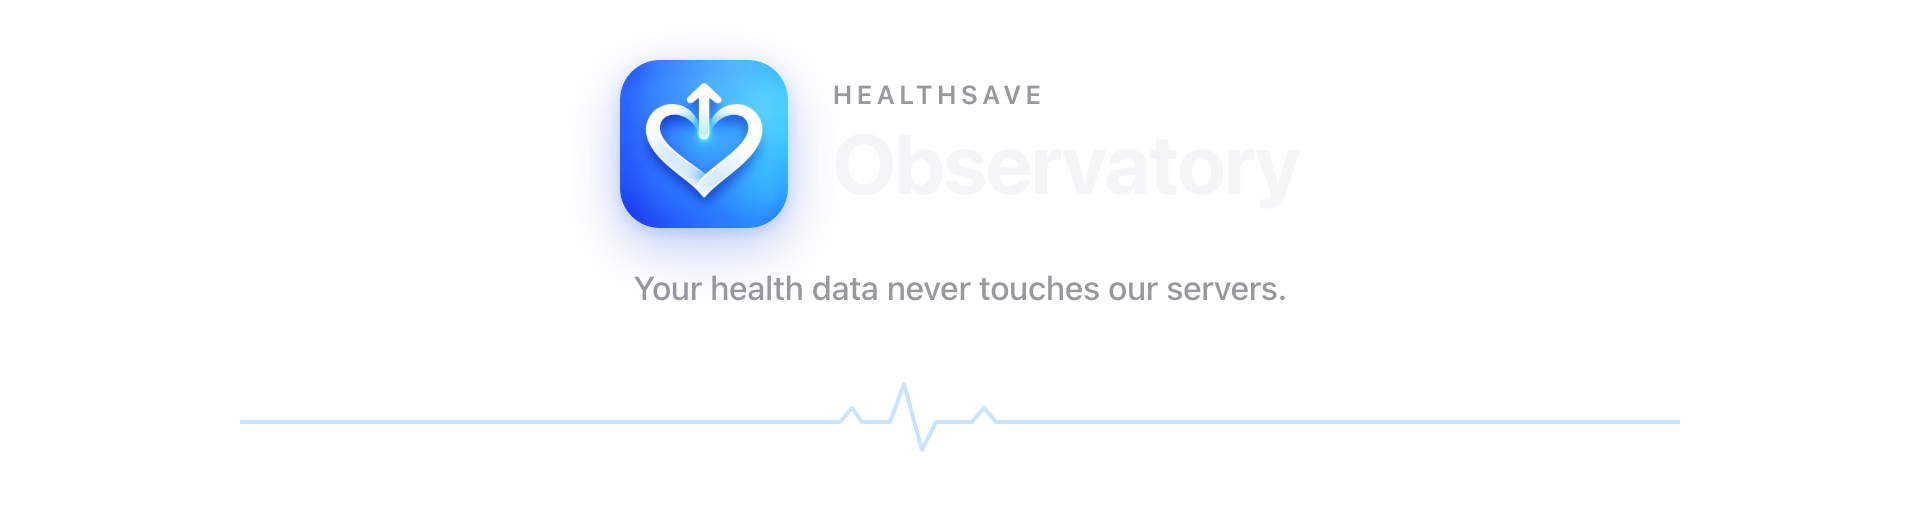
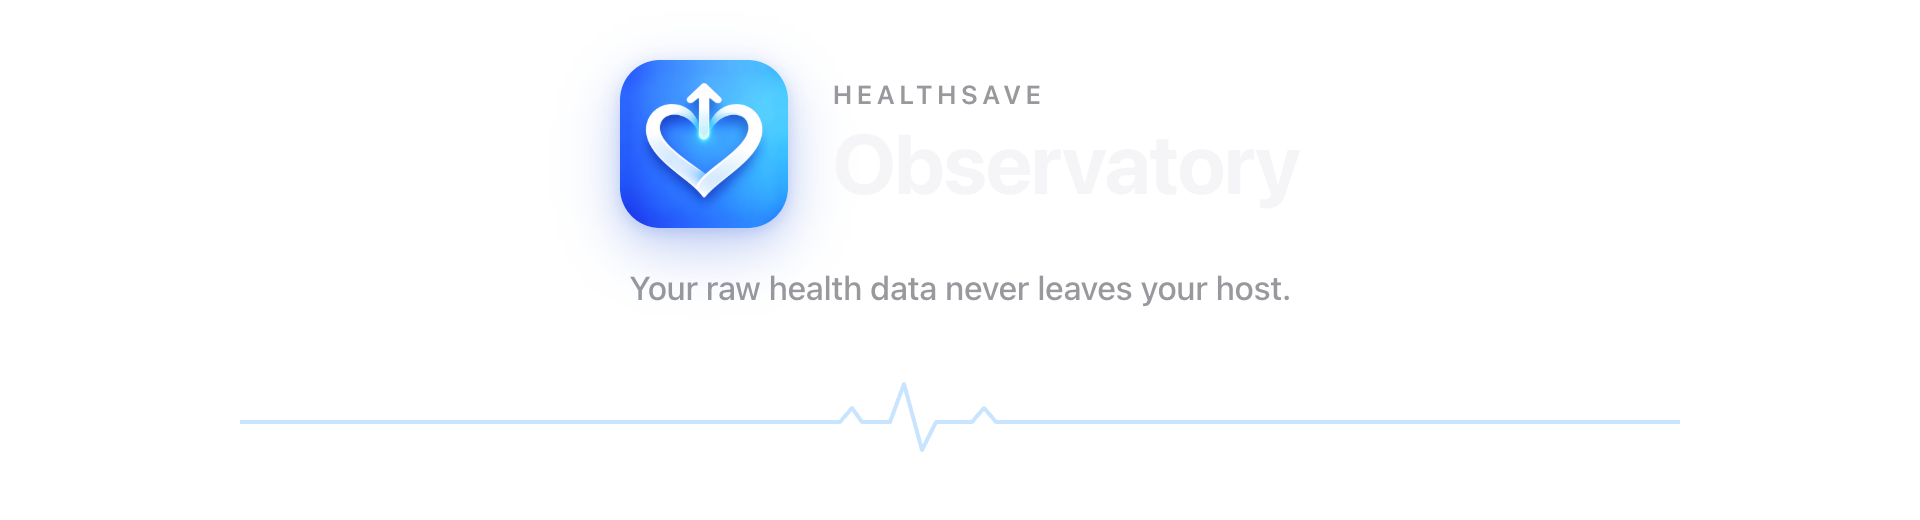
docs(readme): marketing panels + precise privacy copy
- Four lead sections get theme-aware brand panels (tinted canvas,
  kicker + ECG hairline, caption, evidence chips) wired via <picture>
- Privacy promoted to a lead section; the egress ledger is the proof
- Copy aligned to the provable story: raw readings never leave the
  host; cloud narration is opt-in, derived-only, redacted; briefs
  stay dated and badged, stale included
- Hero + social preview re-rendered with the precise tagline

REDACT_OVERRIDE: PII hook OCR false positive on panel/hero/social PNGs;
every asset visually inspected and strings-scanned — marketing text only.

Changed region(s): [[0.3125, 0.5231, 0.6875, 0.5846]]

diff --git a/README.md b/README.md
@@ -1,7 +1,7 @@
 <p align="center">
   <picture>
     <source media="(prefers-color-scheme: dark)" srcset="docs/assets/github/hero-dark.png">
-    <img src="docs/assets/github/hero-light.png" alt="HealthSave Observatory — your health data never touches our servers" width="760">
+    <img src="docs/assets/github/hero-light.png" alt="HealthSave Observatory — raw health data never leaves your host; cloud narration is opt-in and derived-only" width="760">
   </picture>
 </p>
 
@@ -30,28 +30,50 @@ One crisp clip, zero marketing fluff — the real product talking to a real loca
 
 ### Product tour — the three screens that matter
 
-**Today.** A live nervous-load score, the week's recovery narrative, and the Local Vault panel that proves where every number lives. The vault below holds **3,285,859 rows** in a self-hosted TimescaleDB — the *No cloud egress* badge is the point.
+**Today.** A live nervous-load score, the week's recovery narrative, and the Local Vault panel that proves where every number lives. The vault below holds **3,285,859 rows** in a self-hosted TimescaleDB — the Local Vault panel is the point: your rows, on your disk, raw readings never leaving the host.
 
 <p align="center">
-  <img src="docs/assets/screenshots/framed/today.png" alt="Observatory Today view: nervous-load score 64, recovery narrative, Local Vault with 3.28M rows and No cloud egress badge" width="100%">
+  <picture>
+    <source media="(prefers-color-scheme: dark)" srcset="docs/assets/screenshots/panels/today-dark.png">
+    <img src="docs/assets/screenshots/panels/today-light.png" alt="Observatory Today view: nervous-load score 64, recovery narrative, Local Vault with 3.28M self-hosted rows" width="100%">
+  </picture>
   &nbsp;&nbsp;
   <img src="docs/assets/screenshots/framed/mobile-today.png" alt="Observatory Today view on iPhone" width="300">
 </p>
 
-**Findings.** Statistics compute anomalies, trends and correlations; the local AI *narrates* them on Ollama and is badged **Interpreted locally** — it summarises real measurements, it never invents a health fact. The weekly brief below cites resting HR 45.5 bpm (↓5.8%), HRV 89.7 ms (↑8.9%), walking HR 83.3 bpm (↓14.3%), SpO₂ stable at 97.6%.
+**Findings.** Statistics compute anomalies, trends and correlations; the local AI *narrates* them on Ollama and is badged **Interpreted locally** — it summarises real measurements, it never invents a health fact. If you opt into cloud narration, only derived findings leave the host — consented, redacted, and listed in the Privacy view; briefs stay dated and badged, stale included. The weekly brief below cites resting HR 45.5 bpm (↓5.8%), HRV 89.7 ms (↑8.9%), walking HR 83.3 bpm (↓14.3%), SpO₂ stable at 97.6%.
 
-<p align="center"><img src="docs/assets/screenshots/framed/findings.png" alt="Findings view: locally interpreted weekly brief with evidence-linked numbers and 48 findings" width="100%"></p>
+<p align="center">
+  <picture>
+    <source media="(prefers-color-scheme: dark)" srcset="docs/assets/screenshots/panels/findings-dark.png">
+    <img src="docs/assets/screenshots/panels/findings-light.png" alt="Findings view: weekly brief interpreted locally, evidence-linked numbers, 48 findings" width="100%">
+  </picture>
+</p>
 
 **Sources.** Every stream is mapped to its hardware origin with a freshness score — imperfect or conflicting signals are kept as immutable records, never averaged into a fake consensus.
 
-<p align="center"><img src="docs/assets/screenshots/framed/sources.png" alt="Sources view: data provenance, 16 connections, 89% mean device freshness" width="100%"></p>
+<p align="center">
+  <picture>
+    <source media="(prefers-color-scheme: dark)" srcset="docs/assets/screenshots/panels/sources-dark.png">
+    <img src="docs/assets/screenshots/panels/sources-light.png" alt="Sources view: data provenance, 16 connections, 89% mean device freshness" width="100%">
+  </picture>
+</p>
+
+**Privacy.** The egress ledger, in the open: raw observations are blocked from every route; only policy-approved, derived findings may leave, and only while cloud narration stays consented — with prompt redaction on.
+
+<p align="center">
+  <picture>
+    <source media="(prefers-color-scheme: dark)" srcset="docs/assets/screenshots/panels/privacy-dark.png">
+    <img src="docs/assets/screenshots/panels/privacy-light.png" alt="Privacy view: raw observations blocked, derived findings leave only while consented, prompt redaction on" width="100%">
+  </picture>
+</p>
 
 <details>
-<summary><strong>More surfaces</strong> — privacy posture, signal relationships, raw data explorer</summary>
+<summary><strong>More surfaces</strong> — signal relationships, raw data explorer</summary>
 
-| Privacy & egress | Relationships | Data explorer |
-|:---:|:---:|:---:|
-| <img src="docs/assets/screenshots/framed/privacy.png" alt="Privacy view" width="100%"> | <img src="docs/assets/screenshots/framed/relationships.png" alt="Relationships view" width="100%"> | <img src="docs/assets/screenshots/framed/data.png" alt="Data explorer view" width="100%"> |
+| Relationships | Data explorer |
+|:---:|:---:|
+| <img src="docs/assets/screenshots/framed/relationships.png" alt="Relationships view" width="100%"> | <img src="docs/assets/screenshots/framed/data.png" alt="Data explorer view" width="100%"> |
 
 </details>
 
